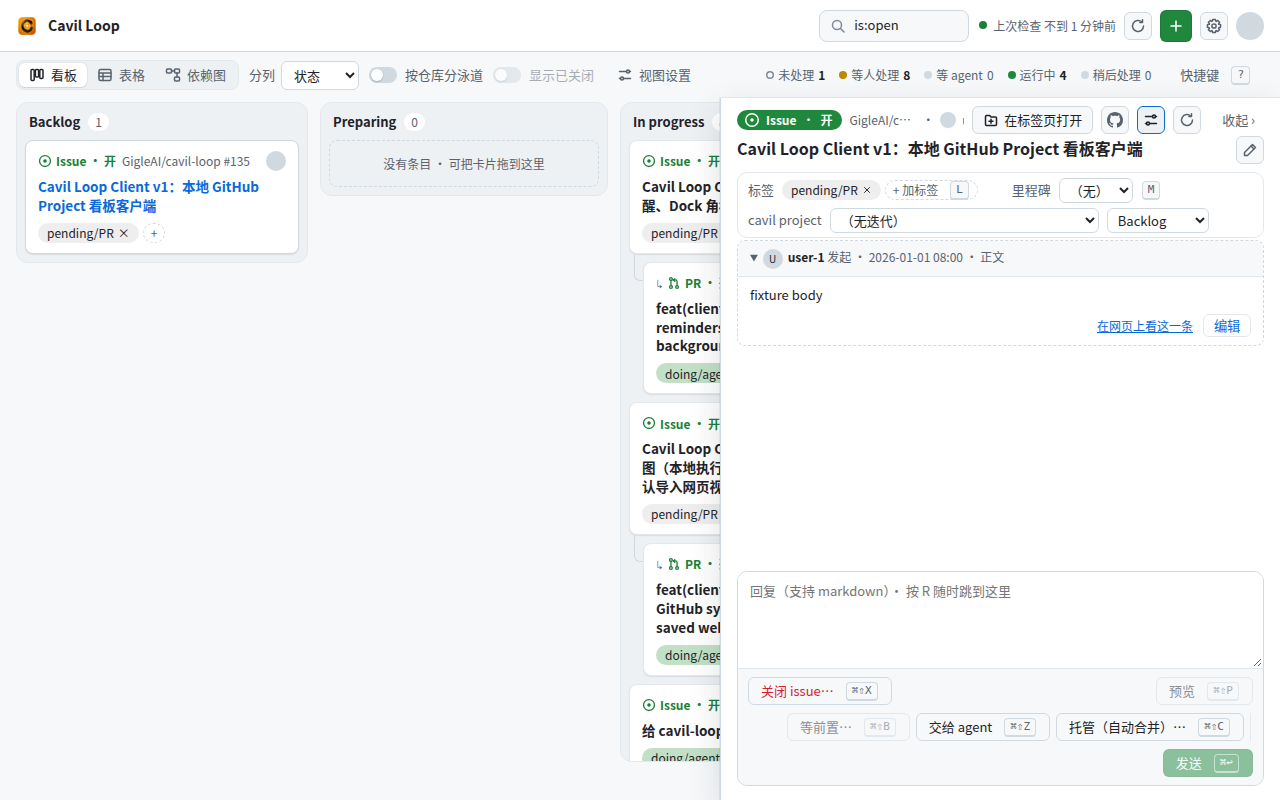
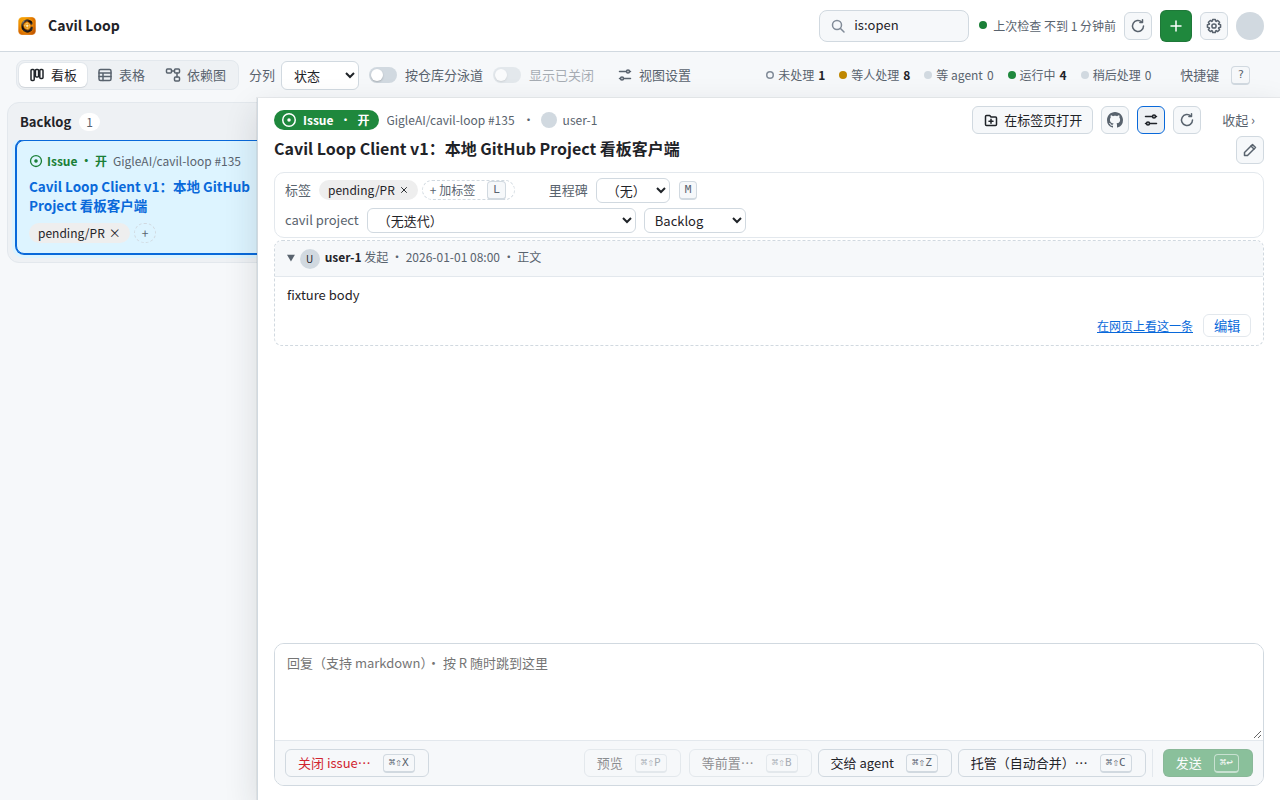
test(client): pin the e2e tests written for the old 560 default; check a far card's title shows left of the panel; regenerate the guide's detail screenshot (#582)

diff --git a/client/test/e2e/app.spec.ts b/client/test/e2e/app.spec.ts
@@ -1628,6 +1628,21 @@ test('GitHub#582: the panel follows the window, leaving 15 characters of the boa
   await page.setViewportSize({ width: 1281, height: 800 });
   await expect.poll(near(boardStrip)).toBeLessThanOrEqual(2);
   await page.setViewportSize({ width: 1280, height: 800 });
+  // a card far right, under the panel: opening it scrolls the board so its title's first 15 characters show left of the panel
+  await page.keyboard.press('Escape');
+  await expect(detail).toHaveCount(0);
+  const far = page.locator('[data-testid="column"]').last().locator('[data-testid="card"]').first();
+  const farKey = (await far.getAttribute('data-key'))!;
+  await far.locator('[data-testid="card-title"]').click();
+  await expect(detail).toHaveAttribute('data-key', farKey);
+  await expect
+    .poll(async () => {
+      const t = page.locator(`[data-testid="card"][data-key="${farKey}"] [data-testid="card-title"]`).first();
+      const b = (await t.boundingBox())!;
+      const font = await t.evaluate((e) => parseFloat(getComputedStyle(e).fontSize));
+      return b.x >= 0 && b.x + 15 * font <= (await panelLeft()) + 2;
+    })
+    .toBe(true);
   await page.keyboard.press('Escape');
   await expect(detail).toHaveCount(0);
 
@@ -2975,6 +2990,8 @@ test('GitHub#191: a click outside the detail puts it away; cards and row titles 
   ]);
   const { app, page } = await launch(env);
   await signInWithSources(page);
+  // GitHub#582: written for the panel's old default width (560); the default now follows the window (its own test)
+  await page.evaluate(() => (window as any).cavil.setView({ panelWidth: 560 }));
   const detail = page.getByTestId('detail');
   const frame = page.frameLocator('[data-testid="timeline-frame"]');
   /** a blank spot of the window outside the panel: the head of the leftmost column (not a card) */
@@ -3142,6 +3159,8 @@ test('GitHub#257: the whole title cell of a table row opens the detail — icon,
   ]);
   const { app, page } = await launch(env);
   await signInWithSources(page);
+  // GitHub#582: written for the panel's old default width (560); the default now follows the window (its own test)
+  await page.evaluate(() => (window as any).cavil.setView({ panelWidth: 560 }));
   const detail = page.getByTestId('detail');
   const frame = page.frameLocator('[data-testid="timeline-frame"]');
   await page.locator('[data-testid="layout"] button[data-value="table"]').click();

diff --git a/client/test/e2e/open-item.spec.ts b/client/test/e2e/open-item.spec.ts
@@ -91,6 +91,8 @@ test('GitHub#522: opening an item takes back its own notifications only — pane
   const app = await launchApp(env);
   const page = app.page;
   await signIn(page);
+  // GitHub#582: written for the panel's old default width (560); the default now follows the window (its own test)
+  await page.evaluate(() => (window as any).cavil.setView({ panelWidth: 560 }));
   // the window behind: an opening is not a look
   app.desktop.push({ kind: 'inactive' });
   await row(page, A).click();
@@ -134,6 +136,8 @@ test('GitHub#522: the item the floating panel shows is marked and brought into v
   const page = app.page;
   await page.setViewportSize({ width: 1100, height: 640 });
   await signIn(page);
+  // GitHub#582: written for the panel's old default width (560); the default now follows the window (its own test)
+  await page.evaluate(() => (window as any).cavil.setView({ panelWidth: 560 }));
   await boardByStatus(page);
   const cards = page.locator('[data-testid="card"]');
   // the board scrolled away from the first column's top card: right and down as far as it goes
@@ -206,6 +210,8 @@ test('GitHub#522: in the table, a row out of view is scrolled to; in a folded gr
   const page = app.page;
   await page.setViewportSize({ width: 1100, height: 520 });
   await signIn(page);
+  // GitHub#582: written for the panel's old default width (560); the default now follows the window (its own test)
+  await page.evaluate(() => (window as any).cavil.setView({ panelWidth: 560 }));
   const rows = page.locator('[data-testid="row"]');
   const scroller = () => page.evaluate(() => {
     let el: HTMLElement | null = document.querySelector('[data-testid="row"]');

diff --git a/client/test/e2e/tabs.spec.ts b/client/test/e2e/tabs.spec.ts
@@ -118,6 +118,8 @@ test('GitHub#442: a click opens the floating panel, ⌘ / Ctrl + click or the ri
   const app = await launchApp(env);
   const page = app.page;
   await signIn(page);
+  // GitHub#582: written for the panel's old default width (560); the default now follows the window (its own test)
+  await page.evaluate(() => (window as any).cavil.setView({ panelWidth: 560 }));
   const bar = page.getByTestId('tabs');
   const menu = page.getByTestId('open-menu');
 
@@ -321,6 +323,8 @@ test('GitHub#442: the floating panel belongs to the home tab — a tab and back 
   const app = await launchApp(env);
   const page = app.page;
   await signIn(page);
+  // GitHub#582: written for the panel's old default width (560); the default now follows the window (its own test)
+  await page.evaluate(() => (window as any).cavil.setView({ panelWidth: 560 }));
   await row(page, B).click({ button: 'middle' });
   await expect(tabs(page)).toHaveCount(1);
   await row(page, A).click();
@@ -1132,6 +1136,8 @@ test('GitHub#447: a close in the floating panel puts the panel away — only the
   const app = await launchApp(env);
   const page = app.page;
   await signIn(page);
+  // GitHub#582: written for the panel's old default width (560); the default now follows the window (its own test)
+  await page.evaluate(() => (window as any).cavil.setView({ panelWidth: 560 }));
 
   // ---- 1. the panel shows the item it was closed in: it goes, the board is whole, the result at the top ----
   await row(page, A).click();
